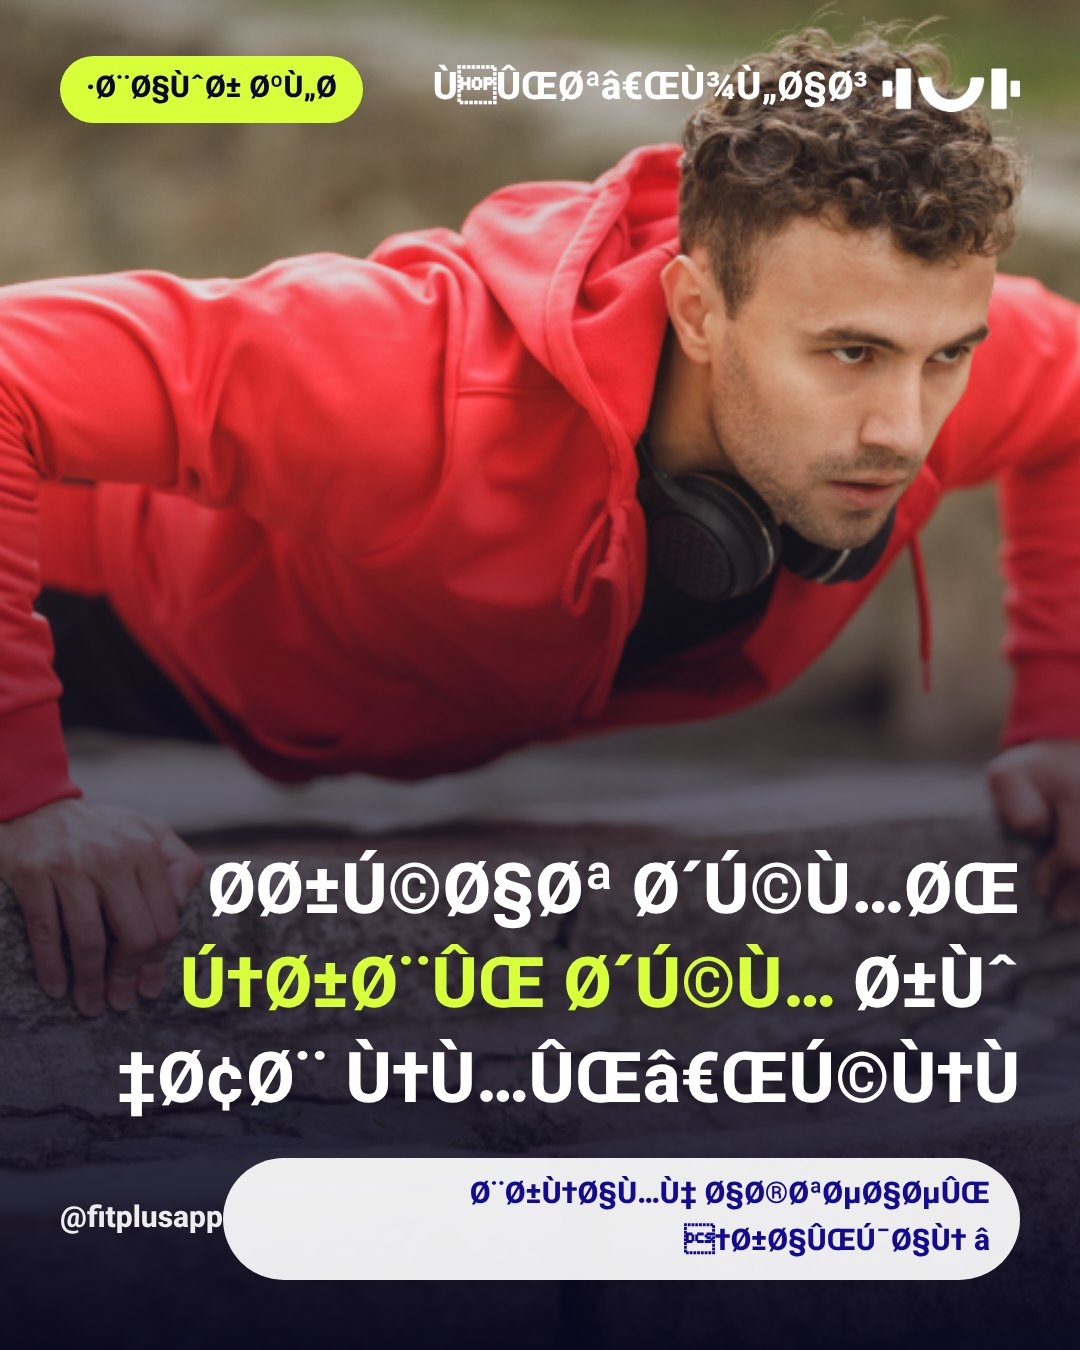
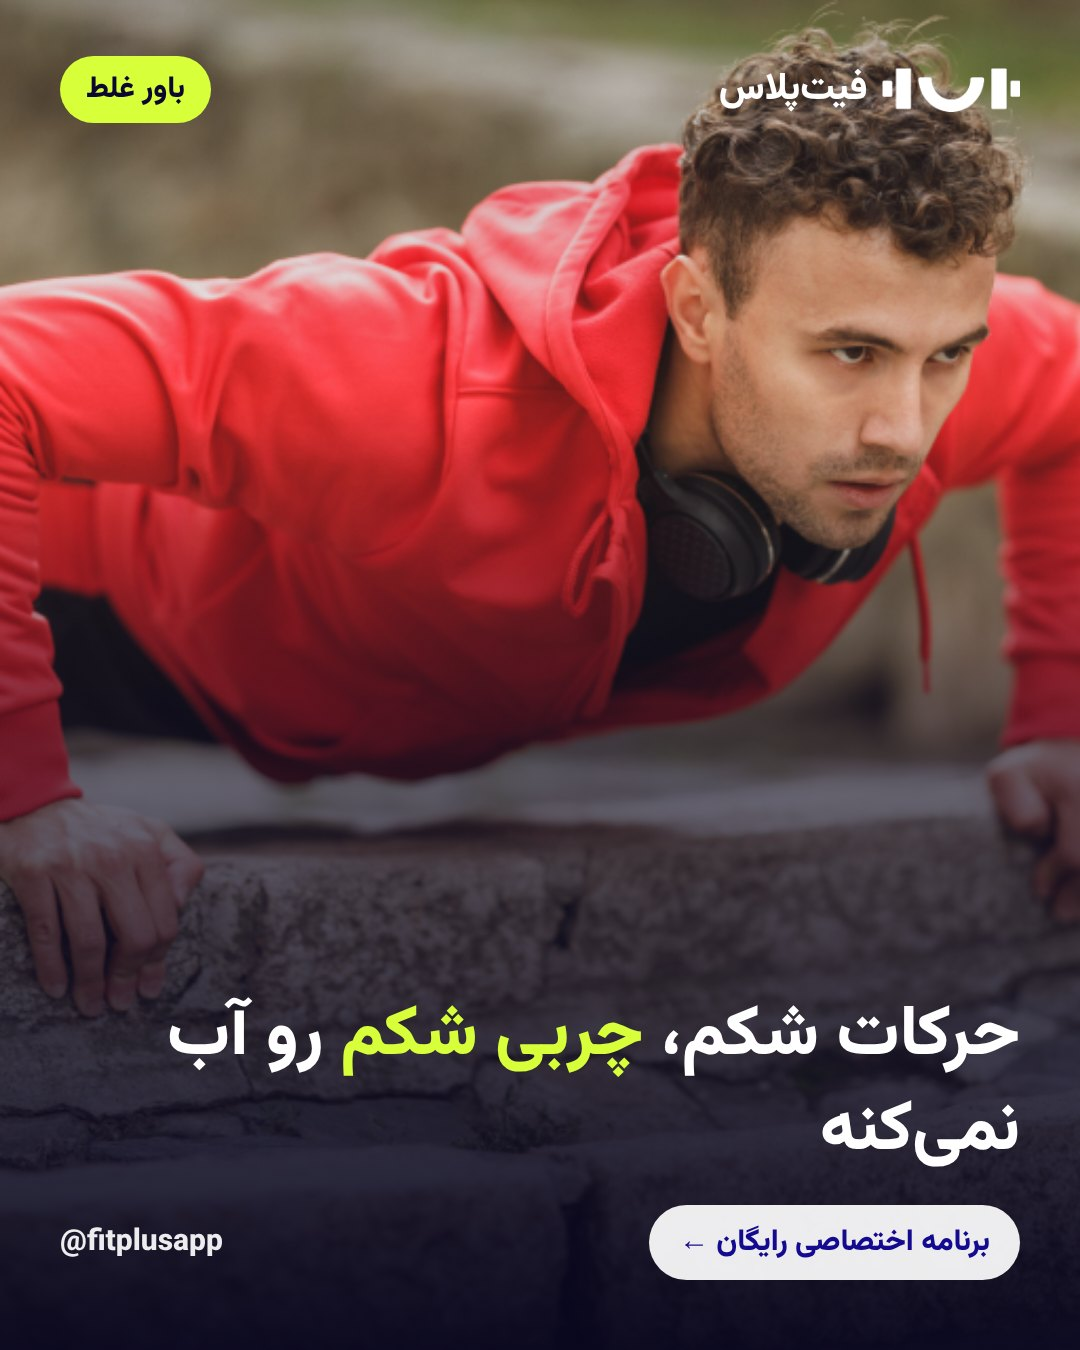
Channel posts: 6 designs (incl. classic FitPlus look), a different one every day
Claude-Session: https://claude.ai/code/session_01BTRzrRitpPB9FSwSpQHuMw

Changed region(s): [[0.0611, 0.6222, 0.9472, 0.9644], [0.3972, 0.0311, 0.7944, 0.0933], [0.0611, 0.0311, 0.3361, 0.0933]]

diff --git a/tools/channel_posts.py b/tools/channel_posts.py
@@ -16,7 +16,7 @@ from playwright.sync_api import sync_playwright
 ROOT = os.path.dirname(os.path.dirname(os.path.abspath(__file__)))
 FONTS = os.path.join(ROOT, 'tools', 'fonts')
 FA = str.maketrans('0123456789', '۰۱۲۳۴۵۶۷۸۹')
-THEMES = ['poster', 'neon', 'wellness', 'magazine']
+THEMES = ['poster', 'classic', 'neon', 'wellness', 'circle', 'magazine']
 W, H = 1080, 1350
 
 # n: (headline, highlight word, tag, photo topic, big number/keyword)
@@ -90,6 +90,20 @@ def pick_photo(n):
     return 'file://' + os.path.join(ROOT, f)
 
 
+POSTS = json.load(open(os.path.join(ROOT, 'telegram', 'posts.json'), encoding='utf-8'))
+
+
+def subtitle(n):
+    import re
+    lines = [l for l in POSTS[n - 1].split('\n') if l.strip()][1:]
+    for l in lines:
+        c = re.sub('[\U0001F000-\U0001FAFF\u2600-\u27BF\uFE0F\u25AA-\u25FE]', '', l)
+        c = re.sub(r'^[\s\-•▫·*۰-۹0-9.:)]+', '', c).strip()
+        if len(c) > 10:
+            return c if len(c) <= 46 else c[:44].rsplit(' ', 1)[0] + '…'
+    return ''
+
+
 def page(theme, n, meta, photo):
     faces = ''.join("@font-face{font-family:Vaz;font-weight:%s;src:url('file://%s/Vazirmatn-%s.woff2')}" % (w, FONTS, f)
                     for w, f in (('400', 'Regular'), ('500', 'Medium'), ('700', 'Bold'), ('800', 'ExtraBold')))
@@ -155,6 +169,46 @@ h1 em{font-style:normal;color:%s}
 <div class="card"><div class="pic"></div><div class="txt"><h1>%s</h1></div></div>
 <div class="ft"><span class="cta">شروع رایگان ←</span><span class="id">@fitplusapp</span></div>""" % (
             logo('#140A9A', '#5B4BFF'), tag, hl)
+    elif theme == 'classic':  # the original FitPlus look (blue/white cards), now with matching photo
+        dark = n % 2 == 0
+        bg, fg, sub, card = ('#1A0FB8', '#fff', '#D4CCFF', '#fff') if dark else ('#EEEDFF', '#14122B', '#4B4870', '#1A0FB8')
+        css = base + """
+.st{background:%s;color:%s}
+.wm{position:absolute;left:-120px;top:520px;width:900px;opacity:.07}
+.top{position:absolute;top:60px;right:64px;left:64px;display:flex;justify-content:space-between;align-items:center}
+.tag{background:%s;color:%s;font-weight:800;font-size:28px;padding:8px 24px;border-radius:999px}
+.hd{position:absolute;top:190px;right:64px;left:64px;height:420px;display:flex;flex-direction:column;justify-content:center}
+h1{margin:0;font-size:%dpx;font-weight:800;line-height:1.4}
+.ln{width:110px;height:9px;border-radius:9px;background:%s;margin:30px 0 24px}
+.sub{font-size:36px;font-weight:500;color:%s}
+.pic{position:absolute;top:640px;right:64px;left:64px;height:430px;border-radius:34px;background:url('%s') center 35%%/cover;box-shadow:0 30px 60px -30px rgba(0,0,0,.45)}
+.bar{position:absolute;bottom:60px;right:64px;left:64px;background:%s;border-radius:22px;padding:24px 32px;display:flex;justify-content:space-between;align-items:center;font-size:30px;font-weight:700;color:%s}
+""" % (bg, fg, card, bg, tsz - 6, fg if dark else '#1A0FB8', sub, photo, card, bg)
+        body = """<img class="wm" src="file://%s" alt="">
+<div class="top"><span class="lg" style="color:%s">%s<span>فیتپلاس</span></span><span class="tag">%s</span></div>
+<div class="hd"><h1>%s</h1><div class="ln"></div><div class="sub">%s</div></div><div class="pic"></div>
+<div class="bar"><span>نصب رایگان از کافهبازار و مایکت</span><span class="id">@fitplusapp</span></div>""" % (
+            os.path.join(ROOT, 'tools', 'logo-white.png' if dark else 'logo-color.png'), fg,
+            logo('#fff' if dark else '#140A9A', ''), tag, html.escape(meta[0]), html.escape(subtitle(n)))
+    elif theme == 'circle':  # clean white, round photo, big headline (minimal studio look)
+        acc = ['#FF6B35', '#1A0FB8', '#00A878', '#E63946'][n % 4]
+        css = base + """
+.st{background:#FFFFFF;color:#111}
+.ring{position:absolute;width:760px;height:760px;border-radius:50%%;border:22px solid %s;top:110px;left:-190px;opacity:.18}
+.pic{position:absolute;width:620px;height:620px;border-radius:50%%;top:180px;left:-80px;background:url('%s') center 35%%/cover;box-shadow:0 40px 80px -40px rgba(0,0,0,.5)}
+.top{position:absolute;top:60px;right:64px;left:64px;display:flex;justify-content:space-between;align-items:center;color:#140A9A}
+.tag{color:%s;font-weight:800;font-size:30px;border-bottom:5px solid %s;padding-bottom:4px}
+.big{position:absolute;top:230px;right:64px;font-size:170px;font-weight:800;color:%s;line-height:1;direction:ltr}
+h1{position:absolute;top:850px;right:64px;left:64px;margin:0;font-size:%dpx;font-weight:800;line-height:1.4}
+h1 em{font-style:normal;color:%s}
+.sub{position:absolute;top:1080px;right:64px;left:64px;font-size:34px;font-weight:500;color:#555}
+.ft{position:absolute;bottom:56px;right:64px;left:64px;display:flex;justify-content:space-between;align-items:center;font-size:30px;font-weight:700;color:#140A9A}
+.cta{background:%s;color:#fff;border-radius:999px;padding:14px 30px;font-weight:800}
+""" % (acc, photo, acc, acc, acc, tsz - 8, acc, acc)
+        body = """<div class="ring"></div><div class="pic"></div><div class="big">%s</div>
+<div class="top"><span class="lg">%s<span>فیتپلاس</span></span><span class="tag">%s</span></div>
+<h1>%s</h1><div class="sub">%s</div><div class="ft"><span class="cta">برنامه رایگان ←</span><span class="id">@fitplusapp</span></div>""" % (
+            big, logo('#140A9A', ''), tag, hl, html.escape(subtitle(n)))
     else:  # magazine
         css = base + """
 .st{background:#140A9A;color:#fff}

diff --git a/telegram/post.py b/telegram/post.py
@@ -62,8 +62,8 @@ def clean(caption):
 def slot(state):
     posts = load(os.path.join(HERE, 'posts.json'), [])
     n = state.get('next', 0) % len(posts)
-    themes = ['poster', 'neon', 'wellness', 'magazine']  # design changes every 3 days
-    th = themes[(int(time.time() // 86400) // 3) % len(themes)]
+    themes = ['poster', 'classic', 'neon', 'wellness', 'circle', 'magazine']  # a different design every day
+    th = themes[int((time.time() + 12600) // 86400) % len(themes)]
     img = os.path.join(HERE, 'images-themes', th, 'post-%02d.jpg' % (n + 1))
     if not os.path.exists(img):
         img = os.path.join(HERE, 'images', 'post-%02d.jpg' % (n + 1))
